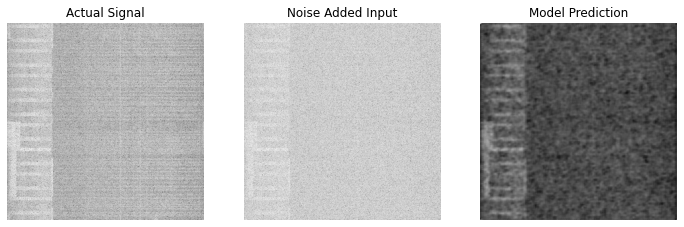
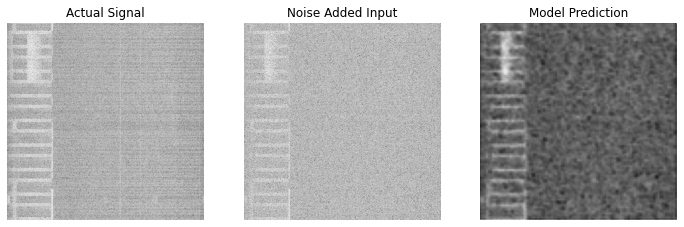
new ops

diff --git a/README.md b/README.md
@@ -29,6 +29,11 @@ Manually adding AWGN noise to PlutoSDR signals in python as a substitute for a r
 
 #### Outputs `run 1 : small poc with 190 training sample and 10 test samples`
 ![op1](./assets/m1_op1.png)
+![op2](./assets/m1_op2.png)
+![op3](./assets/m1_op3.png)
+![op4](./assets/m1_op4.png)
+
+
 
 
 
